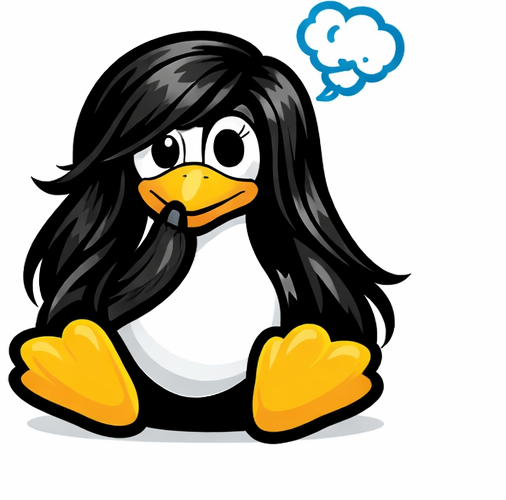
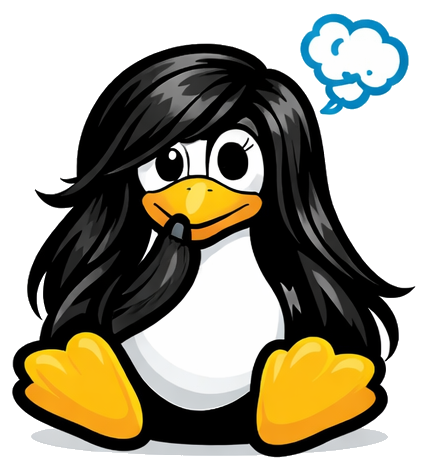
Polish Adele branding: transparent backgrounds, tighter crops, UI tweaks
Remove white backgrounds from all mascot assets using corner flood-fill
to preserve the belly and ground shadow. Crop assets tighter so the
penguin fills ~95% of the image, fixing undersized tray icons. Bump
welcome state image to 96px with larger text, update greeting to
"Hi! I'm Adele!", and change placeholder text to "Ask Adele…". Add
widget-remove, uninstall-service, uninstall, and clean recipes to the
justfile.

diff --git a/kde/plasmoid/org.desktopassistant.panelchat/contents/ui/main.qml b/kde/plasmoid/org.desktopassistant.panelchat/contents/ui/main.qml
@@ -271,6 +271,8 @@ PlasmoidItem {
     compactRepresentation: PlasmaComponents.ToolButton {
         text: "Adele"
         icon.source: Qt.resolvedUrl("../images/adele.png")
+        icon.width: PlasmaCore.Units.iconSizes.smallMedium
+        icon.height: PlasmaCore.Units.iconSizes.smallMedium
         onClicked: root.expanded = !root.expanded
     }
 
@@ -337,14 +339,15 @@ PlasmoidItem {
 
                         Image {
                             source: Qt.resolvedUrl("../images/adele.png")
-                            sourceSize.width: 64
-                            sourceSize.height: 64
+                            sourceSize.width: 96
+                            sourceSize.height: 96
                             fillMode: Image.PreserveAspectFit
                             anchors.horizontalCenter: parent.horizontalCenter
                         }
 
                         QQC2.Label {
-                            text: "Ask me anything..."
+                            text: "Hi! I'm Adele! Ask me anything..."
+                            font.pointSize: 12
                             color: PlasmaCore.Theme.disabledTextColor
                             anchors.horizontalCenter: parent.horizontalCenter
                         }
@@ -419,7 +422,7 @@ PlasmoidItem {
 
                 QQC2.TextField {
                     Layout.fillWidth: true
-                    placeholderText: "Ask desktop assistant…"
+                    placeholderText: "Ask Adele…"
                     text: root.promptText
                     enabled: !busy
                     onTextChanged: root.promptText = text

diff --git a/kde/plasmoid/org.desktopassistant.desktopchat/contents/ui/main.qml b/kde/plasmoid/org.desktopassistant.desktopchat/contents/ui/main.qml
@@ -395,14 +395,15 @@ PlasmoidItem {
 
                     Image {
                         source: Qt.resolvedUrl("../images/adele.png")
-                        sourceSize.width: 64
-                        sourceSize.height: 64
+                        sourceSize.width: 96
+                        sourceSize.height: 96
                         fillMode: Image.PreserveAspectFit
                         anchors.horizontalCenter: parent.horizontalCenter
                     }
 
                     QQC2.Label {
-                        text: "Ask me anything..."
+                        text: "Hi! I'm Adele! Ask me anything..."
+                        font.pointSize: 12
                         color: PlasmaCore.Theme.disabledTextColor
                         anchors.horizontalCenter: parent.horizontalCenter
                     }
@@ -476,7 +477,7 @@ PlasmoidItem {
 
             QQC2.TextField {
                 Layout.fillWidth: true
-                placeholderText: "Ask something"
+                placeholderText: "Ask Adele…"
                 text: root.promptText
                 enabled: !busy
                 onTextChanged: root.promptText = text
